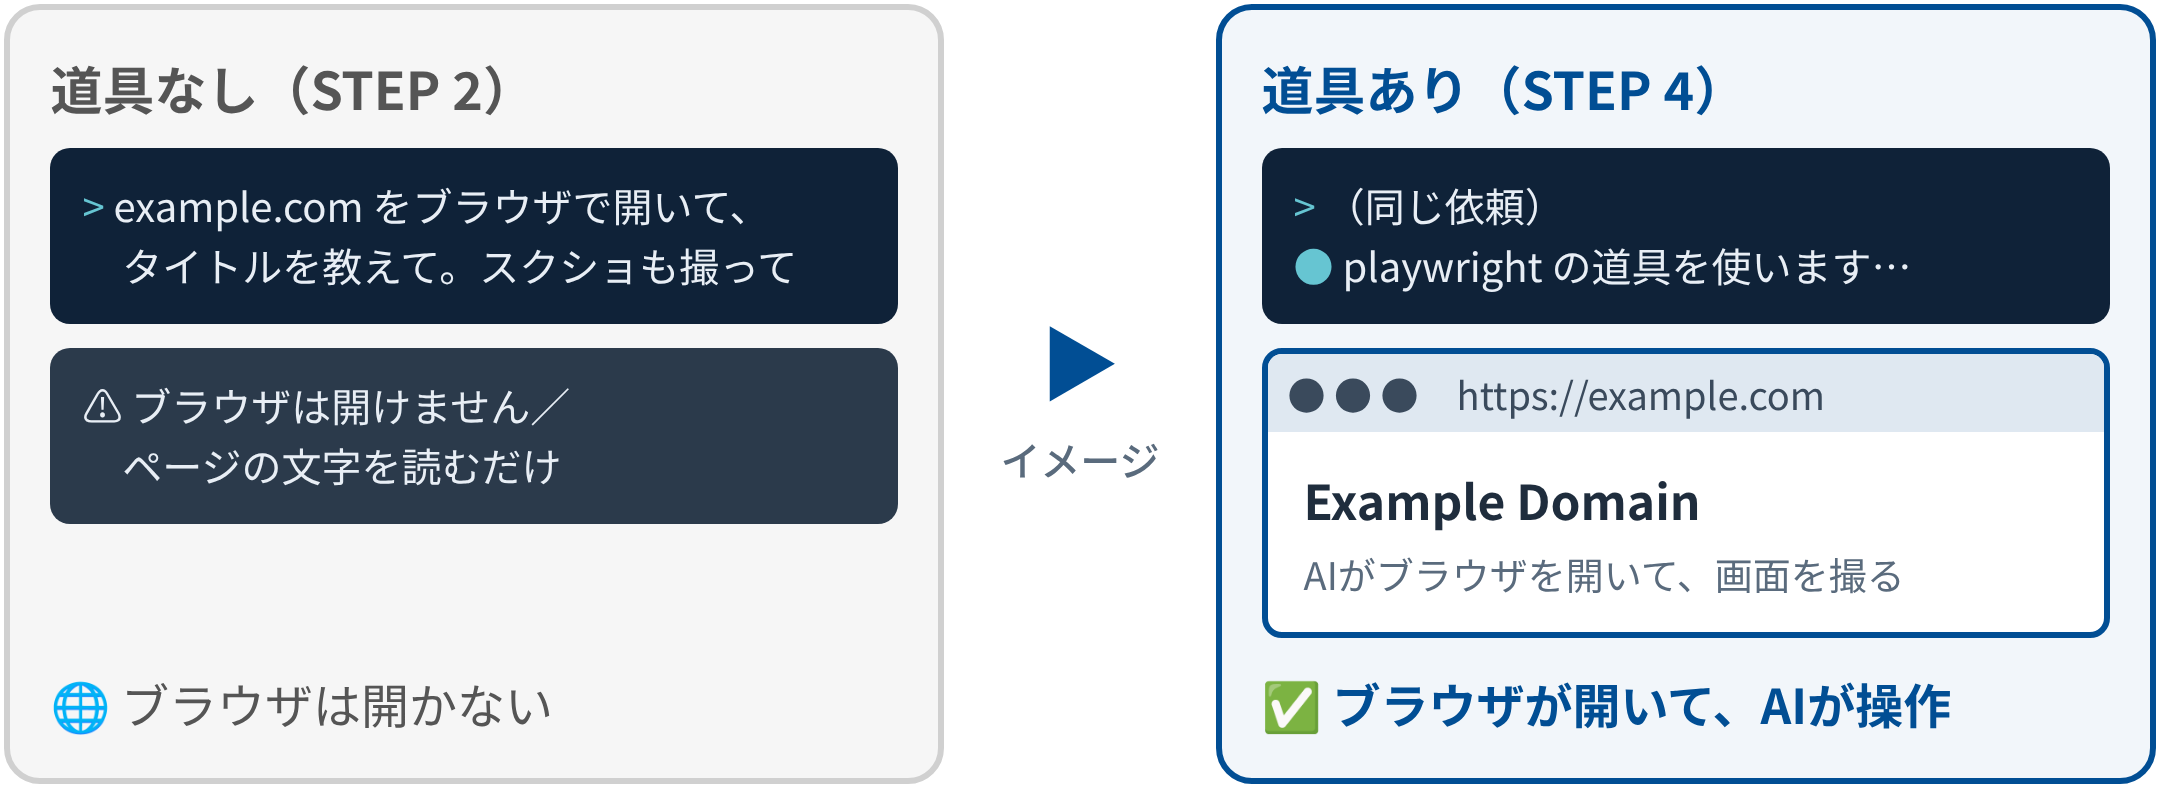
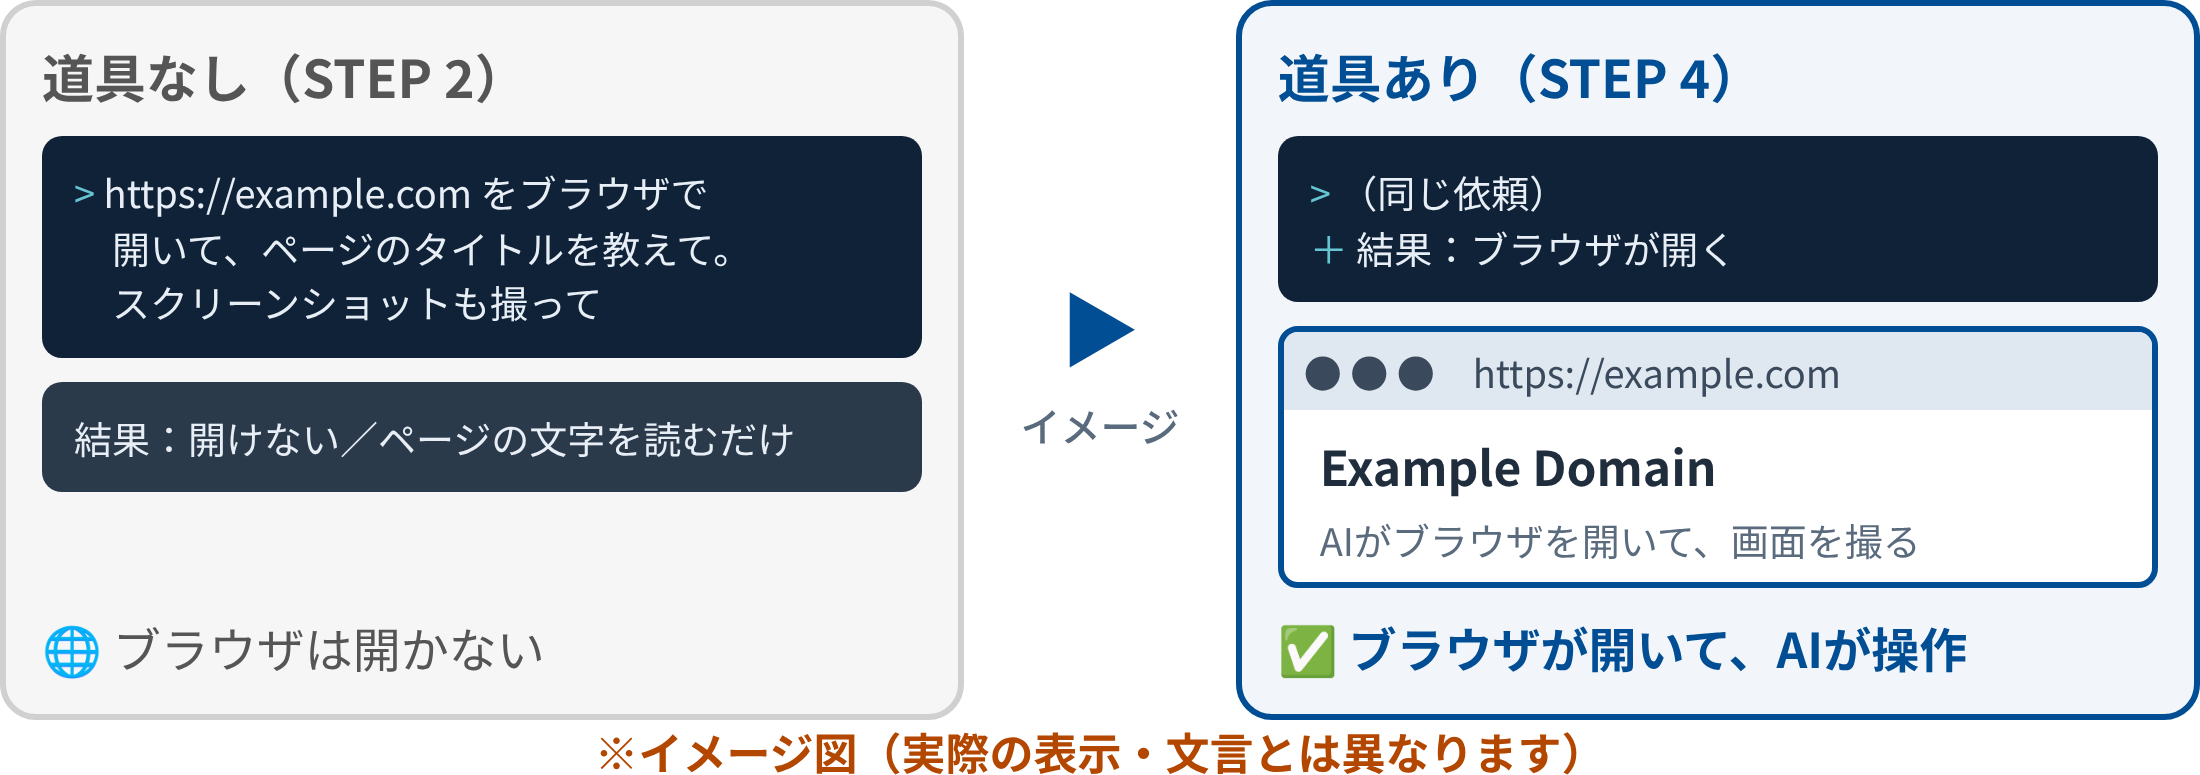
MCPデッキの図を修正（イメージ図の注記・文言そろえ・幅調整、README追記）
Claude-Session: https://claude.ai/code/session_01Rbctg94cmn1UTh3w2pEW36

Changed region(s): [[0.0, 0.0, 1.0, 1.0], [0.4653, 0.3716, 0.5273, 0.4955], [0.4653, 0.5265, 0.5273, 0.6194]]

diff --git a/assets/mcp/src/beforeafter.html b/assets/mcp/src/beforeafter.html
@@ -1,24 +1,26 @@
 <link rel=stylesheet href=base.css>
-<style>.pane{width:470px;height:390px;border-radius:18px;padding:20px;display:flex;flex-direction:column;gap:12px}
-.term{background:#0f2238;color:#e8eef5;border-radius:10px;padding:14px 16px;font-size:20px;text-align:left;line-height:1.5}
+<style>.pane{width:490px;height:360px;border-radius:18px;padding:16px 18px;display:flex;flex-direction:column;gap:12px}
+.term{background:#0f2238;color:#e8eef5;border-radius:10px;padding:14px 16px;font-size:19px;text-align:left;line-height:1.45}
 .term .p{color:#66c5d2}
 .hd{font-size:26px;font-weight:700}
 .win{border:3px solid #014e94;border-radius:10px;background:#fff;overflow:hidden;text-align:left}
 .bar{background:#dfe8f1;padding:6px 10px;font-size:19px;color:#3a4a5c}
-.pg{padding:16px 18px}
+.pg{padding:10px 18px 12px}
 .pg b{font-size:24px}
 .pg div{font-size:19px;color:#5a6b7d;margin-top:6px}
+.note{position:fixed;left:0;right:0;bottom:4px;text-align:center;font-size:22px;font-weight:700;color:#b34700}
 .tag{position:absolute;right:14px;top:10px;font-size:16px;color:#8a8a8a}</style>
 <div class="pane ng" style="border:3px solid #d0d0d0;background:#f6f6f6;color:#555;position:relative">
  <div class=hd>道具なし（STEP 2）</div>
- <div class=term><span class=p>&gt;</span> example.com をブラウザで開いて、<br>　タイトルを教えて。スクショも撮って</div>
- <div class=term style="background:#2b3a4b">⚠ ブラウザは開けません／<br>　ページの文字を読むだけ</div>
+ <div class=term><span class=p>&gt;</span> https://example.com をブラウザで<br>　開いて、ページのタイトルを教えて。<br>　スクリーンショットも撮って</div>
+ <div class=term style="background:#2b3a4b;">結果：開けない／ページの文字を読むだけ</div>
  <div style="font-size:24px;margin-top:auto">🌐 ブラウザは開かない</div>
 </div>
 <div class=col style="align-items:center;gap:6px"><div class=arrow>▶</div><div class=label style="white-space:nowrap">イメージ</div></div>
 <div class="pane" style="border:3px solid #014e94;background:#f2f6fa;position:relative">
  <div class=hd style="color:#014e94">道具あり（STEP 4）</div>
- <div class=term><span class=p>&gt;</span> （同じ依頼）<br><span class=p>●</span> playwright の道具を使います…</div>
+ <div class=term><span class=p>&gt;</span> （同じ依頼）<br><span class=p>＋</span> 結果：ブラウザが開く</div>
  <div class=win><div class=bar>● ● ●　https://example.com</div><div class=pg><b>Example Domain</b><div>AIがブラウザを開いて、画面を撮る</div></div></div>
  <div style="font-size:24px;font-weight:700;color:#014e94;margin-top:auto">✅ ブラウザが開いて、AIが操作</div>
 </div>
+<div class=note>※イメージ図（実際の表示・文言とは異なります）</div>
